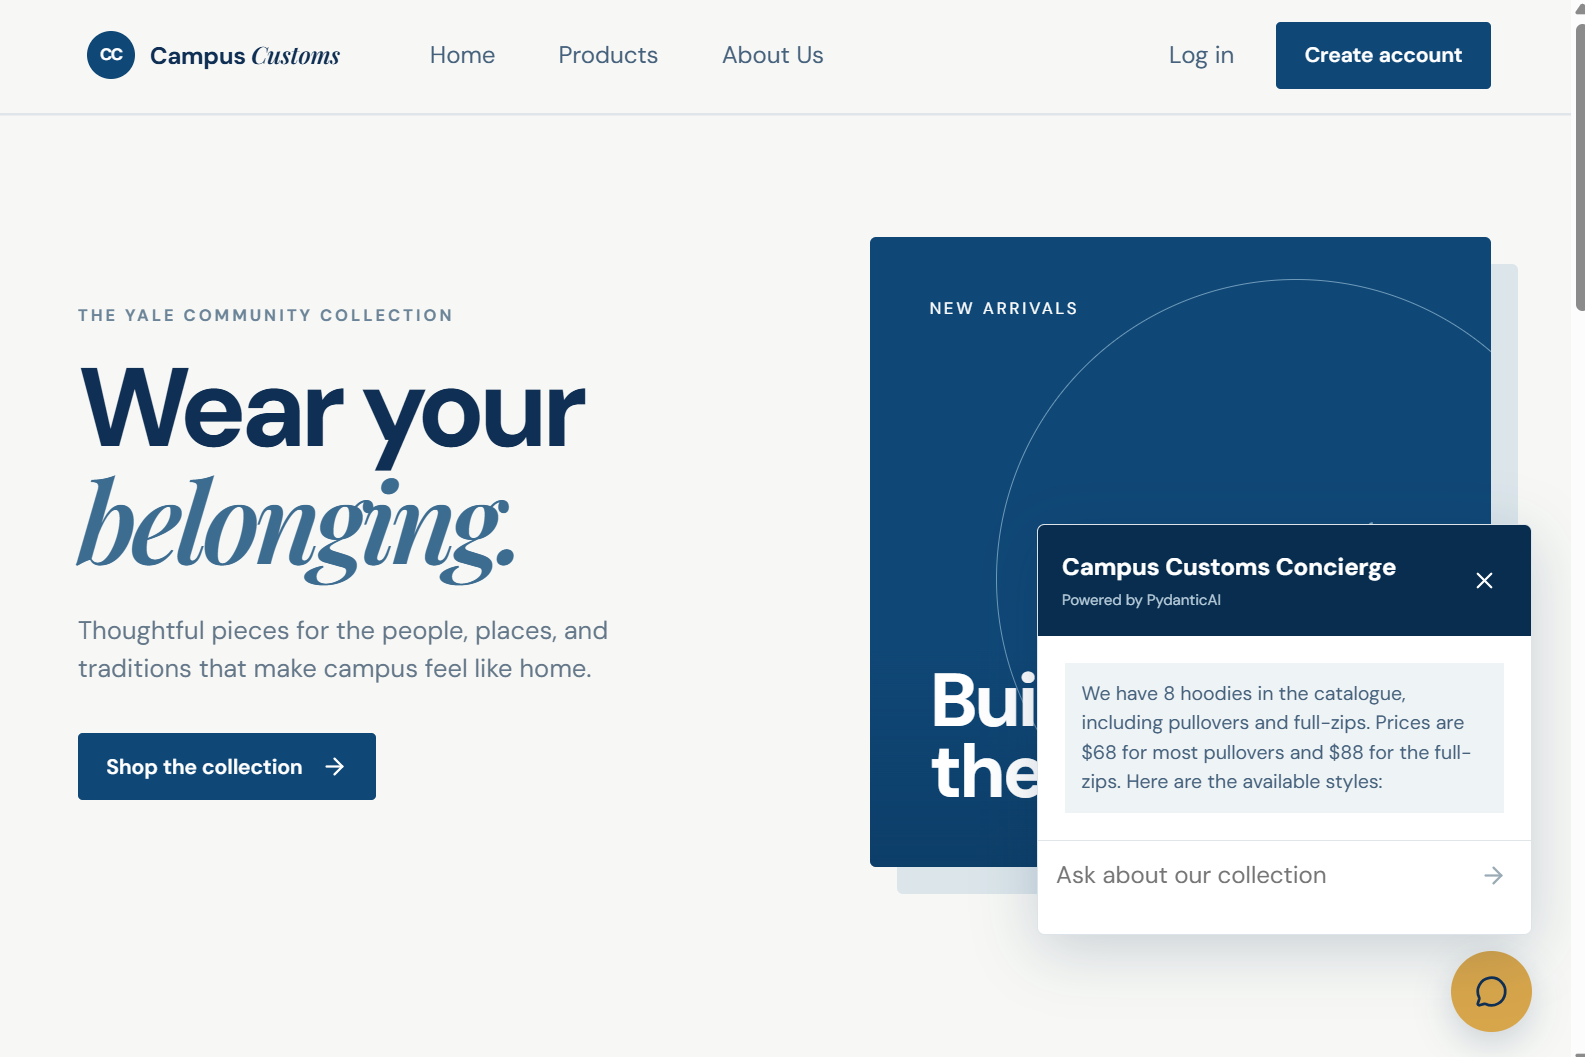
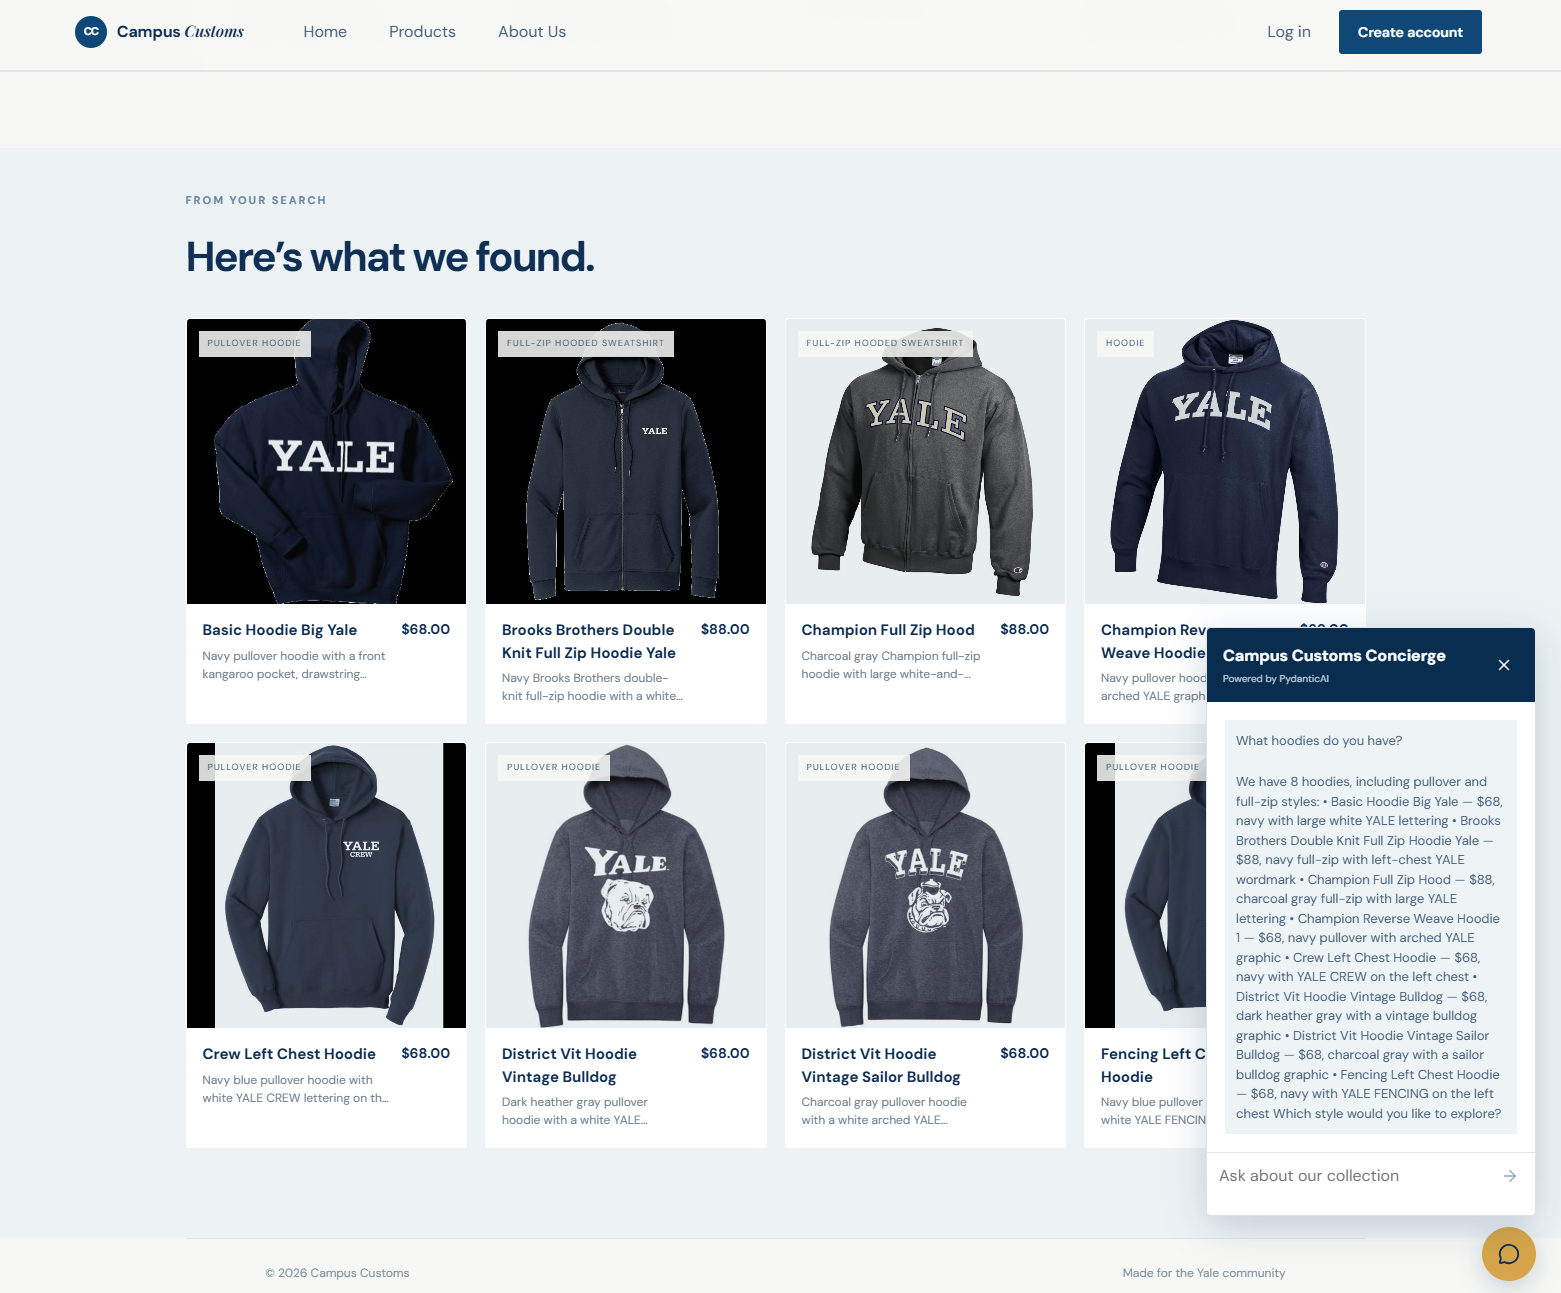
Add genuine category search screenshot

diff --git a/output/harness.md b/output/harness.md
@@ -166,7 +166,7 @@ The live lowercase Vite server at port 5175 serves `hw4/frontend/App.tsx`. A fre
 
 The history endpoint now returns `products_json`. After a logged-in category request, the saved assistant record restored 8 product cards from `products_json` on the next history load. The database, authentication, Portkey configuration, and fixed ports were preserved.
 
-The existing `check2-category.png` was inspected and is still the older screenshot without the result cards. It was not replaced or claimed as fresh evidence. A browser screenshot showing the response and cards together remains required for replacement Problem 11 evidence.
+The replacement `check2-category.png` was inspected and now shows the category question, grounded response, and all eight loaded result cards together. It is ready as the replacement Problem 11 evidence.
 
 Start the frontend from lowercase `hw4` with `npm.cmd run dev -- --host 127.0.0.1 --port 5175`; the production frontend check is `npm.cmd run build`.
 
